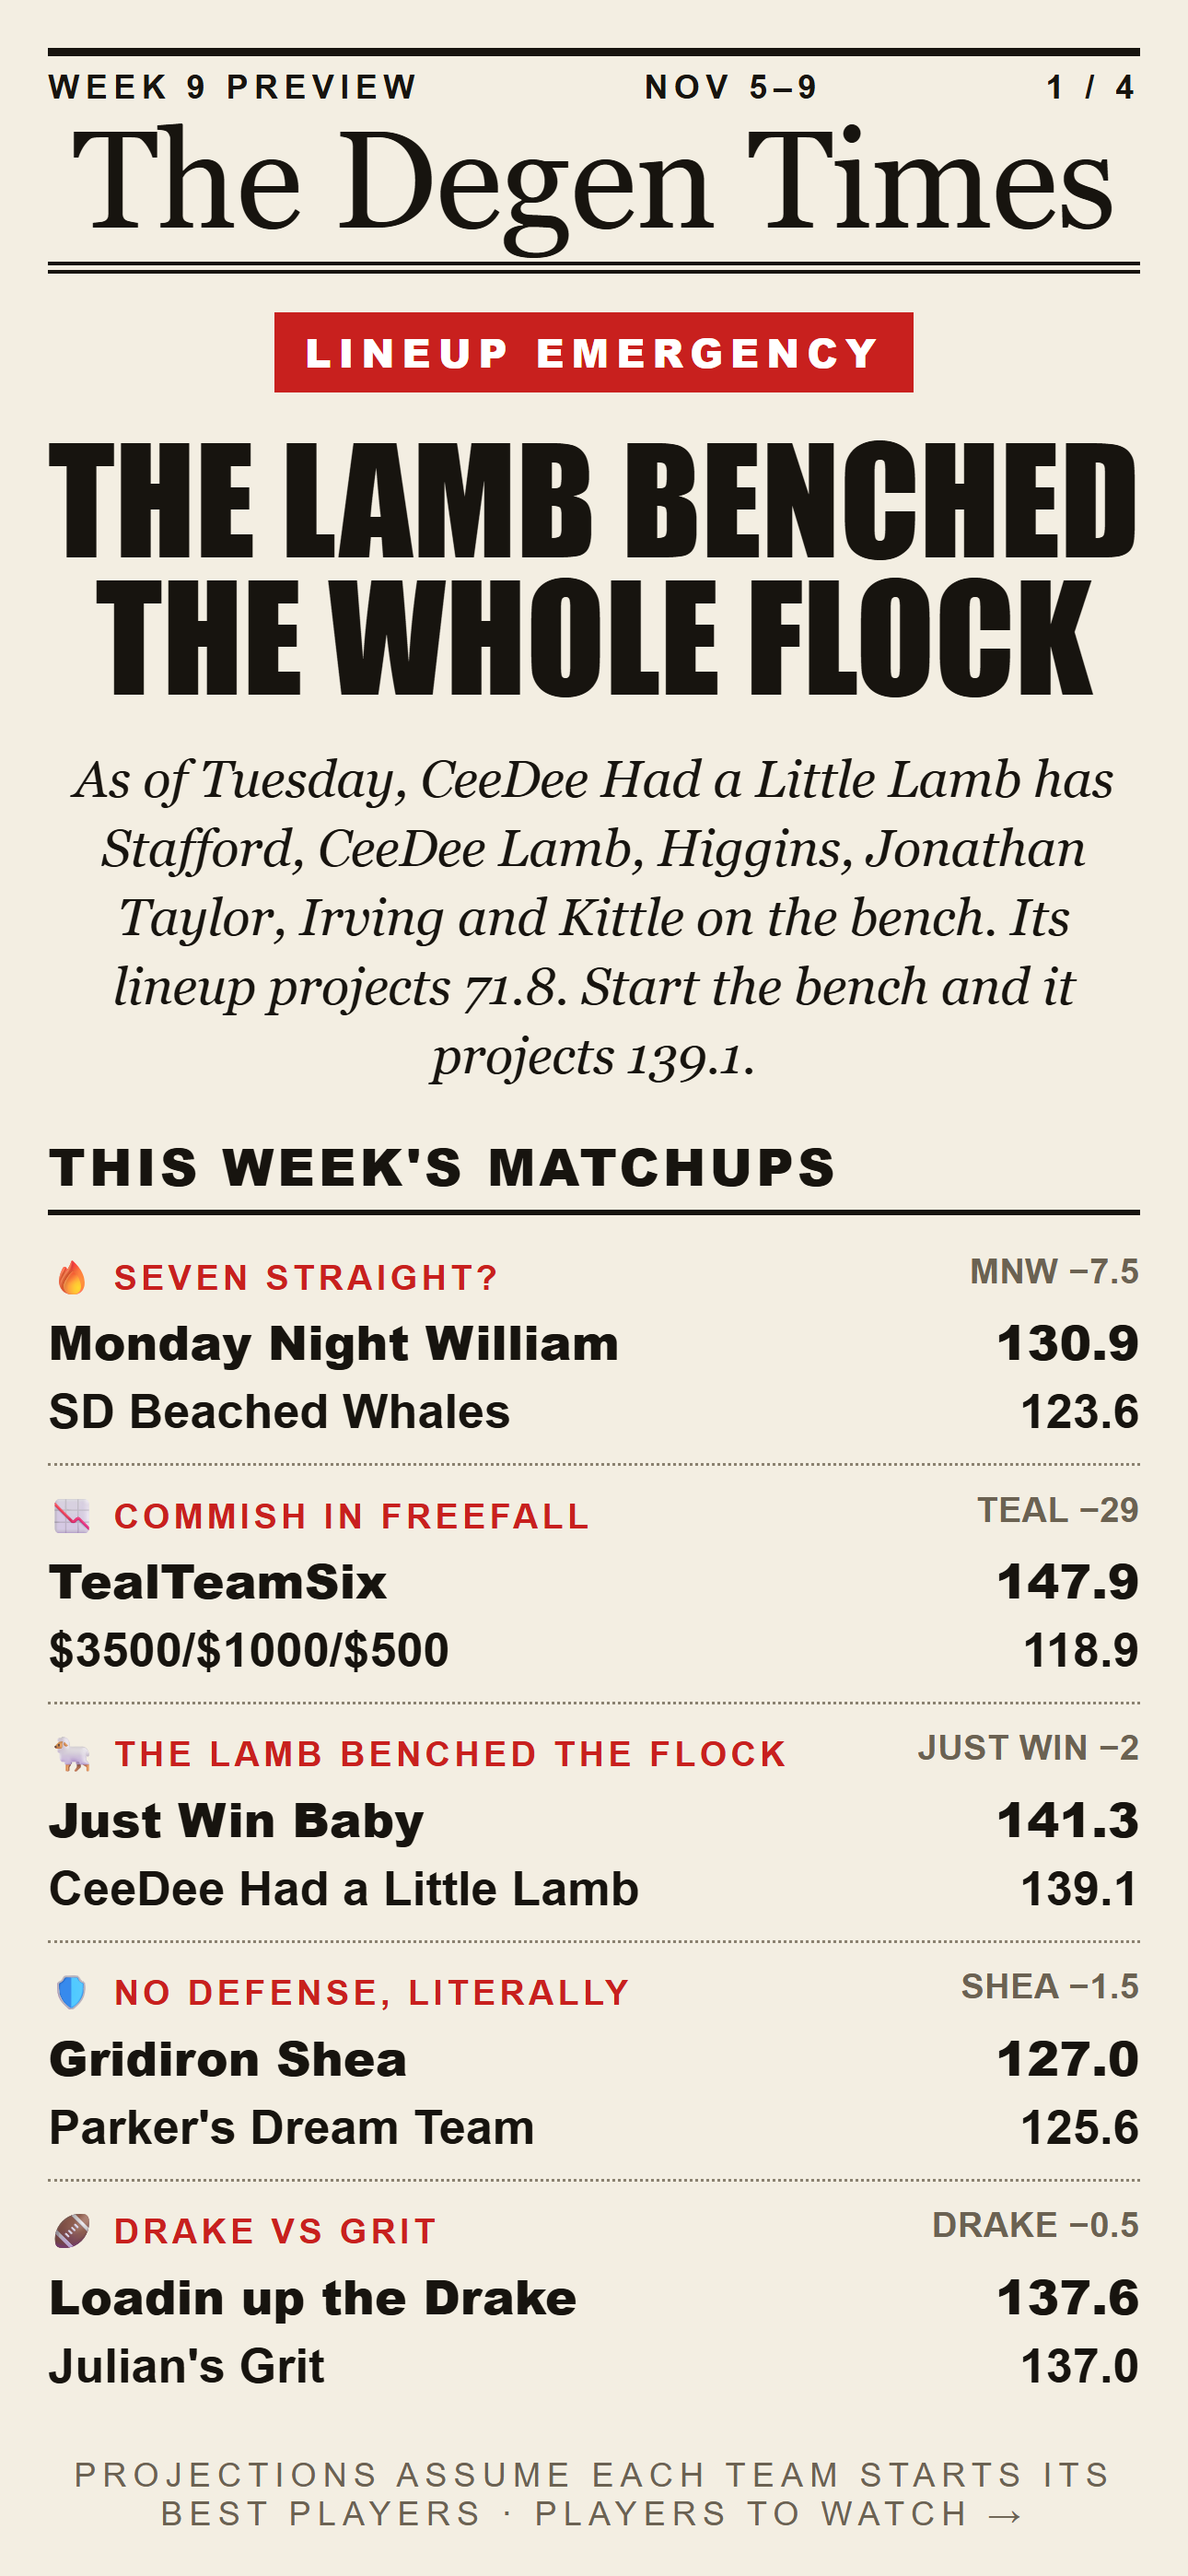
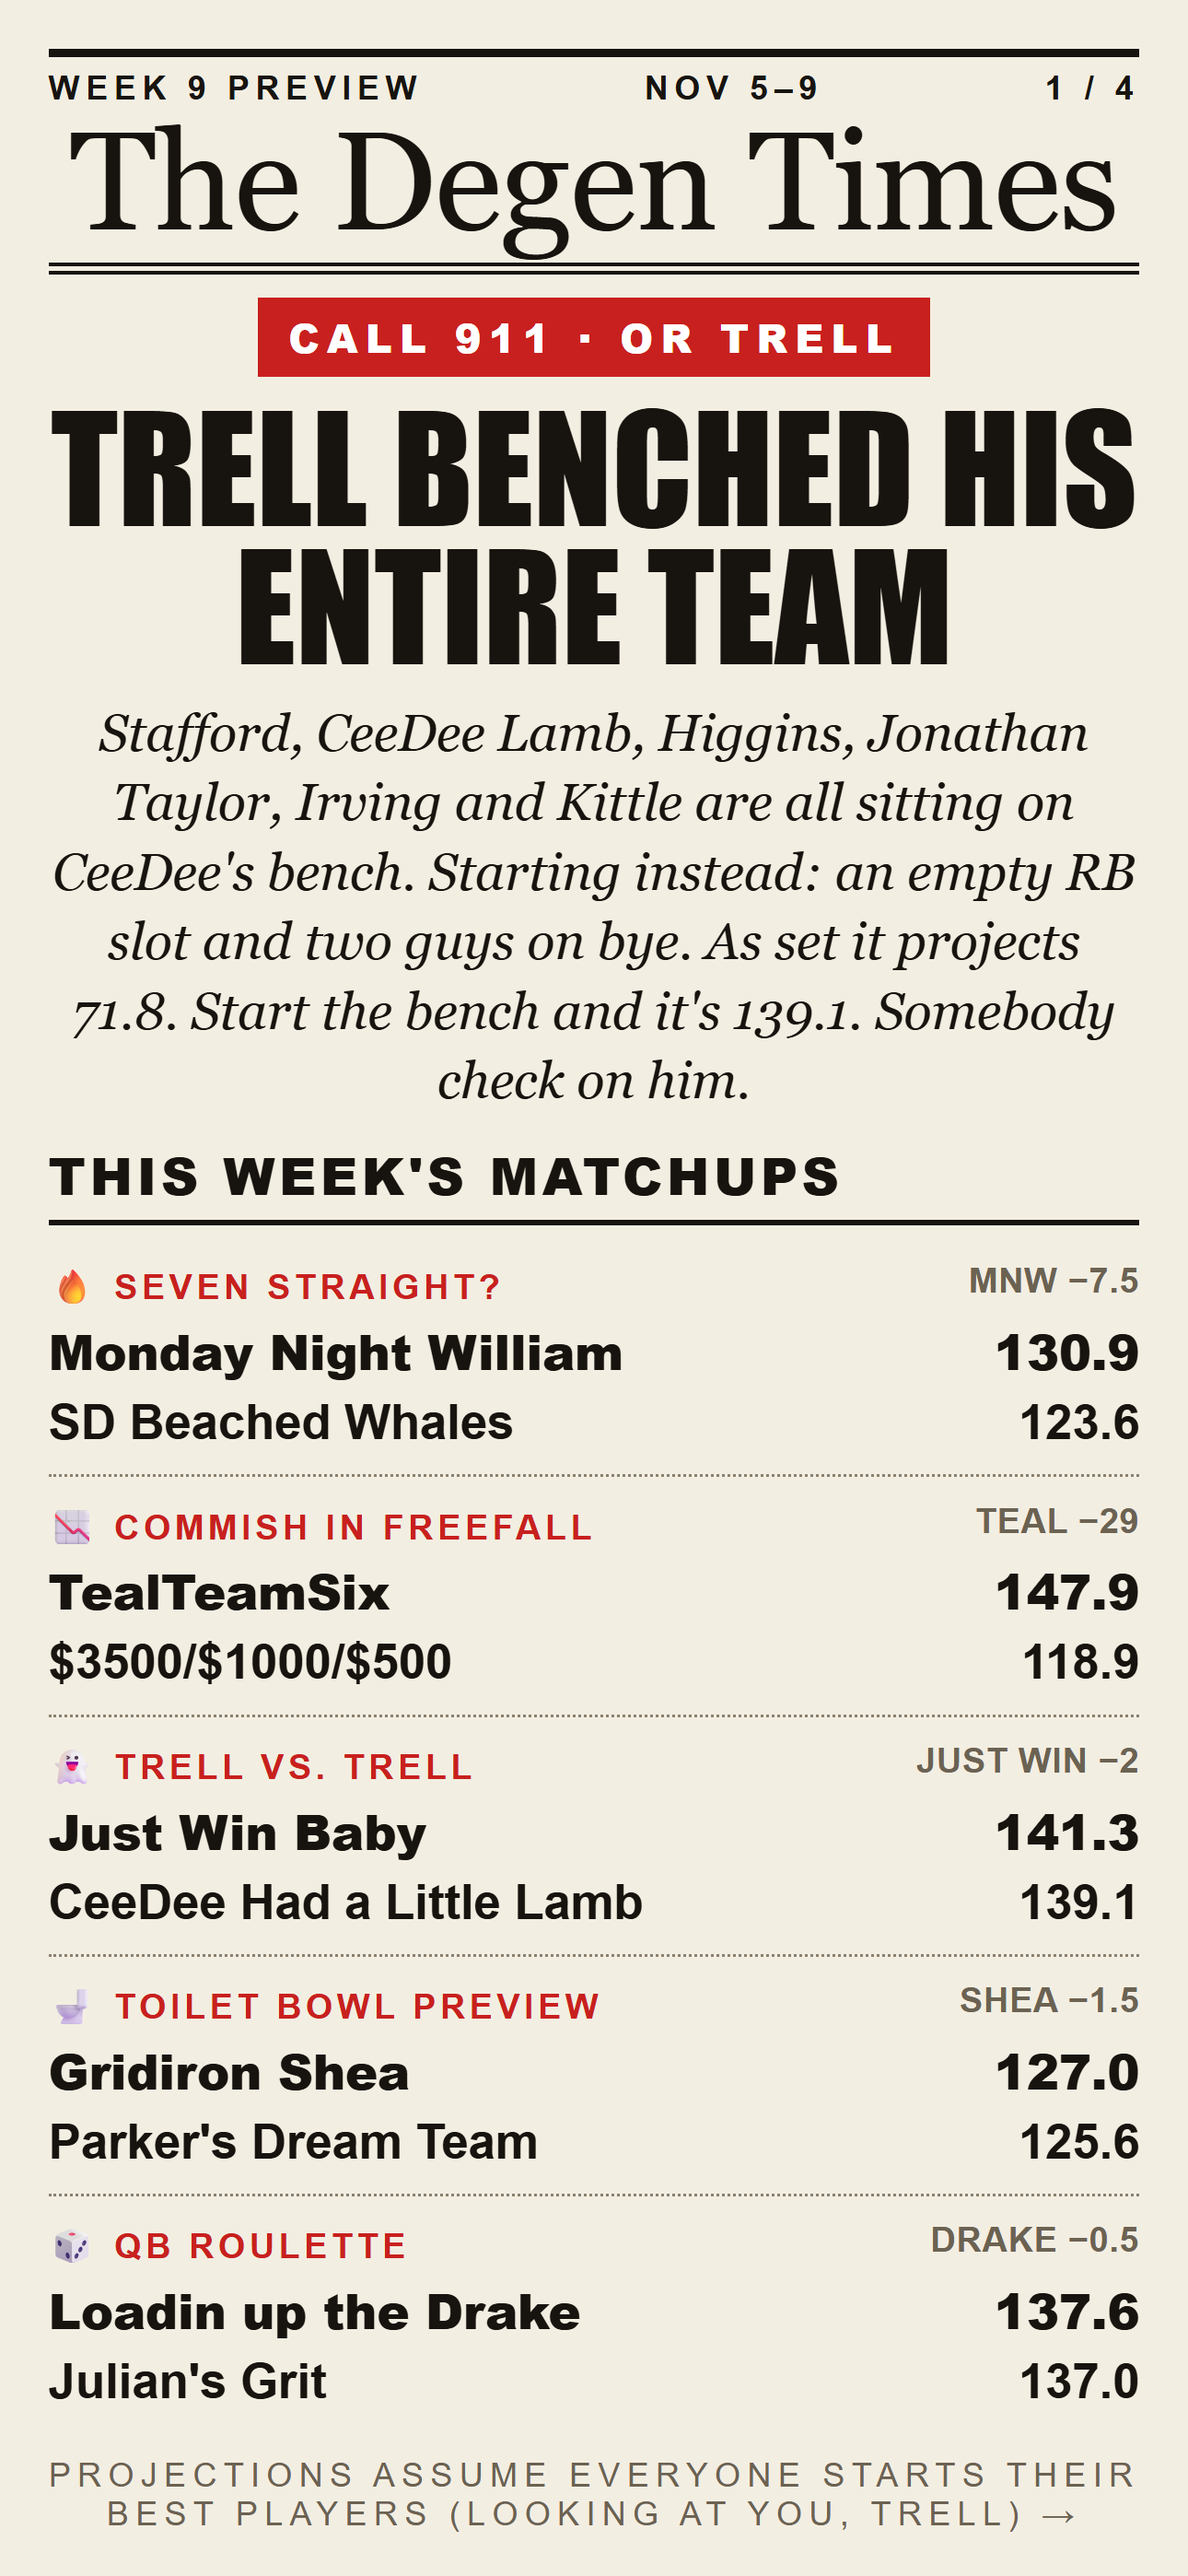
Funnier Week 9 preview; handle managers joining/leaving between seasons

Changed region(s): [[0.031, 0.0311, 0.9612, 0.9957], [0.6202, 0.9335, 0.8372, 0.9957], [0.5891, 0.6534, 0.6512, 0.6845]]

diff --git a/index.html b/index.html
@@ -666,7 +666,11 @@ const L = {
 
 const $ = id => document.getElementById(id);
 const esc = s => String(s).replace(/[&<>"]/g, c => ({"&":"&amp;","<":"&lt;",">":"&gt;",'"':"&quot;"}[c]));
-const T = k => L.teams[k].n;
+const CUR = L.season || 2026;
+// managers who left keep their history under their last team name; new managers just have no history yet
+const T = k => L.teams[k] ? L.teams[k].n : ((L.past||[]).find(P=>P.names[k]) || {names:{[k]:k}}).names[k];
+const isFormer = k => !L.teams[k];
+const EVERY = [...new Set([...Object.keys(L.teams), ...(L.past||[]).flatMap(P=>Object.keys(P.names))])];
 const f2 = n => n.toFixed(2);
 
 // header + this week
@@ -728,7 +732,7 @@ const addH = (s,w,a,sa,b,sb,t) => {
   (H[b]=H[b]||{})[a]=(H[b][a]||[]).concat({s,w,t,won:sb>sa,sa:sb,sb:sa});
 };
 for (const P of (L.past||[])) for (const [w,a,sa,b,sb,t] of P.games) if (t !== "Consolation") addH(P.season,w,a,sa,b,sb,t);
-for (const [w,a,sa,b,sb] of L.games) addH(2026,w,a,sa,b,sb,"");
+for (const [w,a,sa,b,sb] of L.games) addH(CUR,w,a,sa,b,sb,"");
 const gLabel = x => `${x.s} ${x.t || ("Wk " + x.w)}`;
 const next = {}; L.upcoming.forEach(g=>{ (next[g.a]=next[g.a]||{})[g.b]=g.wk; (next[g.b]=next[g.b]||{})[g.a]=g.wk; });
 const h2hSel = $("h2hTeam");
@@ -737,7 +741,7 @@ let saved = null; try { saved = localStorage.getItem("h2hTeam"); } catch(e) {}
 h2hSel.value = (saved && L.teams[saved]) ? saved : "MNW";
 const drawH2H = () => {
   const me = h2hSel.value;
-  const rows = keys.filter(k=>k!==me).map(o=>{
+  const rows = EVERY.filter(k=>k!==me && (!isFormer(k) || ((H[me]||{})[k]||[]).length)).map(o=>{
     const m=(H[me]||{})[o]||[], w=m.filter(x=>x.won).length, l=m.length-w, nx=(next[me]||{})[o];
     return {o,m,w,l,nx};
   }).sort((x,y)=> (y.m.length-x.m.length) || ((y.w-y.l)-(x.w-x.l)) || T(x.o).localeCompare(T(y.o)));
@@ -745,7 +749,7 @@ const drawH2H = () => {
     const games = [...m].reverse().map(x=>`<div class="gr"><span class="sn">${x.s}</span><span class="gl">${esc(x.t || ("Week " + x.w))}</span><span class="wl ${x.won?"w":"l"}">${x.won?"W":"L"}</span><span class="sc">${f2(x.sa)} – ${f2(x.sb)}</span></div>`).join("");
     const det = (games || `<div class="none">Haven't played yet</div>`) + (nx ? `<div class="nx">Next meeting: Week ${nx}</div>` : "");
     const rec = m.length ? `<div class="rec ${w>l?"w":w<l?"l":""}">${w}-${l}</div>` : `<div class="rec n">—</div>`;
-    return `<div class="opp"><div class="oh"><div class="on">vs ${esc(T(o))}</div>${rec}</div><div class="det">${det}</div></div>`;
+    return `<div class="opp"><div class="oh"><div class="on">vs ${esc(T(o))}${isFormer(o) ? " <small>(former)</small>" : ""}</div>${rec}</div><div class="det">${det}</div></div>`;
   }).join("");
 };
 h2hSel.addEventListener("change", ()=>{ try { localStorage.setItem("h2hTeam", h2hSel.value); } catch(e) {} drawH2H(); });
@@ -770,7 +774,7 @@ $("champs").innerHTML = (L.past||[]).map(P => {
   const final = P.games.find(g=>g[5]==="Championship");
   const fl = final ? (()=>{ const [w,a,sa,b,sb]=final; const [wk,ws,lk,ls]=sa>sb?[a,sa,b,sb]:[b,sb,a,sa]; return `Final: ${esc(P.names[wk])} ${f2(ws)}, ${esc(P.names[lk])} ${f2(ls)}`; })() : "";
   return `<div class="champ"><div class="yr">🏆 ${P.season} Champion · ${esc(P.league)}</div><div class="who">${esc(P.names[P.champ])}</div><div class="now">Now ${esc(T(P.champ))} · ${fl}</div><ol>${fin}</ol></div>`;
-}).join("") + `<div class="champ" style="background:var(--paper-2)"><div class="yr">🏆 2026 Champion</div><div class="who">To be decided</div><div class="now">Playoffs: Weeks 15–17 · 6 teams</div></div>`;
+}).join("") + `<div class="champ" style="background:var(--paper-2)"><div class="yr">🏆 ${CUR} Champion</div><div class="who">To be decided</div><div class="now">Playoffs: Weeks 15–17 · 6 teams</div></div>`;
 $("awards").innerHTML = Object.keys(L.awards).sort((a,b)=>b-a).map(w=>`<div class="wk"><h3>Week ${w}</h3><div class="aw">${L.awards[w].map(([aw,txt])=>`<div><b>${esc(aw)}</b>${esc(txt)}</div>`).join("")}</div></div>`).join("");
 
 // results
@@ -1107,11 +1111,11 @@ $("bdNext").addEventListener("click", () => renderBreakdown(bdW, bdI+1));
 renderBreakdown(bdW);
 
 /* ===================== HISTORY / ARCHIVE ===================== */
-const SEASONS = [{y:2026, games:L.games.map(g=>[...g,""]), recaps:L.recaps||{}, awards:L.awards||{}, bench:L.bench||{}, nm:k=>T(k), reg:99, rounds:{}},
-  ...(L.past||[]).map(P=>({y:P.season, games:P.games, recaps:P.recaps||{}, awards:P.awards||{}, bench:P.bench||{}, nm:k=>P.names[k], reg:14, rounds:{15:"Quarterfinals",16:"Semifinals",17:"Championship"}}))];
+const SEASONS = [{y:CUR, ks:Object.keys(L.teams), games:L.games.map(g=>[...g,""]), recaps:L.recaps||{}, awards:L.awards||{}, bench:L.bench||{}, nm:k=>T(k), reg:99, rounds:{}},
+  ...(L.past||[]).map(P=>({y:P.season, ks:Object.keys(P.names), games:P.games, recaps:P.recaps||{}, awards:P.awards||{}, bench:P.bench||{}, nm:k=>P.names[k], reg:14, rounds:{15:"Quarterfinals",16:"Semifinals",17:"Championship"}}))];
 let hxS = SEASONS[0], hxWk = 0;
 const wksOf = S => [...new Set(S.games.map(g=>g[0]))].sort((a,b)=>a-b);
-const setHash = (y,w) => { try { history.replaceState(null,"","#history-"+(y===2026?"":y+"-")+w); } catch(err) {} };
+const setHash = (y,w) => { try { history.replaceState(null,"","#history-"+(y===CUR?"":y+"-")+w); } catch(err) {} };
 function renderHistory(w, y) {
   if (y) hxS = SEASONS.find(s=>s.y===y) || hxS;
   const ws = wksOf(hxS); if (!ws.includes(w)) w = ws[ws.length-1]; hxWk = w;
@@ -1127,7 +1131,7 @@ function renderHistory(w, y) {
   const hi = sc.reduce((m,x)=>x[1]>m[1]?x:m), lo = sc.reduce((m,x)=>x[1]<m[1]?x:m);
   const mg = wg.map(([_,a,sa,b,sb])=>({w:sa>sb?a:b, l:sa>sb?b:a, m:Math.abs(sa-sb)}));
   const close = mg.reduce((m,x)=>x.m<m.m?x:m), blow = mg.reduce((m,x)=>x.m>m.m?x:m);
-  const bench = keys.map(k=>[k,(hxS.bench[k]||[])[w-1]]).filter(x=>x[1]!=null).sort((a,b)=>b[1]-a[1]);
+  const bench = hxS.ks.map(k=>[k,(hxS.bench[k]||[])[w-1]]).filter(x=>x[1]!=null).sort((a,b)=>b[1]-a[1]);
   $("hxSup").innerHTML = [
     ["High score", f2(hi[1]), N(hi[0])], ["Low score", f2(lo[1]), N(lo[0])],
     ["Closest game", close.m.toFixed(2), `${N(close.w)} over ${N(close.l)}`], ["Biggest blowout", "+" + blow.m.toFixed(2), `${N(blow.w)} over ${N(blow.l)}`],
@@ -1139,9 +1143,9 @@ function renderHistory(w, y) {
   $("hxAwT").textContent = `${hxS.rounds[w] || "Week " + w} Awards`;
   $("hxAw").innerHTML = (hxS.awards[w]||[]).map(([aw,txt])=>`<div class="haw"><b>${esc(aw)}</b>${esc(txt)}</div>`).join("") || `<p class="empty">No awards recorded for this week.</p>`;
   const upto = Math.min(w, hxS.reg);
-  const St = Object.fromEntries(keys.map(k=>[k,{w:0,l:0,pf:0}]));
+  const St = Object.fromEntries(hxS.ks.map(k=>[k,{w:0,l:0,pf:0}]));
   hxS.games.filter(g=>g[0]<=upto && !g[5]).forEach(([_,a,sa,b,sb])=>{ St[a].pf+=sa; St[b].pf+=sb; if (sa>sb){St[a].w++;St[b].l++;} else {St[b].w++;St[a].l++;} });
-  const ord = [...keys].sort((a,b)=>(St[b].w-St[a].w)||(St[b].pf-St[a].pf));
+  const ord = [...hxS.ks].sort((a,b)=>(St[b].w-St[a].w)||(St[b].pf-St[a].pf));
   $("hxStT").textContent = w > hxS.reg ? "Final Regular-Season Standings" : `Standings after Week ${w}`;
   $("hxSt").innerHTML = `<thead><tr><th>#</th><th style="text-align:left">Team</th><th>W-L</th><th>PF</th></tr></thead><tbody>` + ord.map((k,i)=>`<tr><td>${i+1}</td><td class="tm">${esc(N(k))}</td><td>${St[k].w}-${St[k].l}</td><td>${St[k].pf.toFixed(1)}</td></tr>`).join("") + `</tbody>`;
   $("hxBench").innerHTML = bench.length ? `<thead><tr><th style="text-align:left">Team</th><th>Left on bench</th></tr></thead><tbody>` + bench.map(([k,v])=>`<tr><td class="tm">${esc(N(k))}</td><td>${v.toFixed(1)}</td></tr>`).join("") + `</tbody>` : `<tbody><tr><td class="empty">No bench data for this week.</td></tr></tbody>`;
@@ -1150,14 +1154,14 @@ $("seasonPills").addEventListener("click", e => { const b = e.target.closest("bu
 $("wkPills").addEventListener("click", e => { const b = e.target.closest(".wkpill"); if (!b) return; const w = +b.dataset.wk; setHash(hxS.y,w); renderHistory(w); });
 $("wkPrev").addEventListener("click", ()=>{ const ws = wksOf(hxS), i = ws.indexOf(hxWk); if (i>0) { setHash(hxS.y,ws[i-1]); renderHistory(ws[i-1]); } });
 $("wkNext").addEventListener("click", ()=>{ const ws = wksOf(hxS), i = ws.indexOf(hxWk); if (i<ws.length-1) { setHash(hxS.y,ws[i+1]); renderHistory(ws[i+1]); } });
-renderHistory(wksOf(SEASONS[0]).slice(-1)[0], 2026);
+renderHistory(wksOf(SEASONS[0]).slice(-1)[0], CUR);
 
 /* ===================== RECORD BOOK ===================== */
 {
   const ALL = SEASONS.flatMap(S=>S.games.map(([w,a,sa,b,sb,t])=>({S,y:S.y,w,a,sa,b,sb,t})));
   const when = x => `${x.y} ${x.t && x.t!=="Consolation" ? x.t : "Week " + x.w}`;
-  const tName = (S,k) => S.y===2026 ? T(k) : `${S.nm(k)}`;
-  const now = (S,k) => S.y===2026 || S.nm(k)===T(k) ? "" : ` (now ${T(k)})`;
+  const tName = (S,k) => S.y===CUR ? T(k) : `${S.nm(k)}`;
+  const now = (S,k) => S.y===CUR || isFormer(k) || S.nm(k)===T(k) ? "" : ` (now ${T(k)})`;
   const teamScores = ALL.flatMap(x=>[{x,k:x.a,s:x.sa,o:x.sb},{x,k:x.b,s:x.sb,o:x.sa}]);
   const row = (i,title,sub,val) => `<div class="rr"><span class="n">${i+1}</span><span class="t">${esc(title)}<small>${esc(sub)}</small></span><span class="v">${esc(val)}</span></div>`;
   const card = (title, rows) => `<div class="rb"><h3>${title}</h3>${rows.join("")}</div>`;
@@ -1167,30 +1171,31 @@ renderHistory(wksOf(SEASONS[0]).slice(-1)[0], 2026);
   const blow = [...mgs].sort((p,q)=>q.m-p.m).slice(0,5).map((e,i)=>row(i, `${tName(e.x.S,e.w)} over ${tName(e.x.S,e.l)}`, when(e.x), "+" + e.m.toFixed(2)));
   const close = [...mgs].sort((p,q)=>p.m-q.m).slice(0,5).map((e,i)=>row(i, `${tName(e.x.S,e.w)} over ${tName(e.x.S,e.l)}`, when(e.x), e.m.toFixed(2)));
   const pl = (arr) => arr.map(([p,n,k,y,w],i)=>{ const S = SEASONS.find(s=>s.y===y); return row(i, n, `${tName(S,k)} · ${y} Week ${w}`, f2(p)); });
-  const benchW = SEASONS.flatMap(S=>keys.flatMap(k=>(S.bench[k]||[]).map((v,i)=>({S,k,w:i+1,v})).filter(e=>e.v!=null))).sort((p,q)=>q.v-p.v).slice(0,5)
+  const benchW = SEASONS.flatMap(S=>S.ks.flatMap(k=>(S.bench[k]||[]).map((v,i)=>({S,k,w:i+1,v})).filter(e=>e.v!=null))).sort((p,q)=>q.v-p.v).slice(0,5)
     .map((e,i)=>row(i, tName(e.S,e.k), `${e.S.y} Week ${e.w}` + now(e.S,e.k), e.v.toFixed(1)));
   const streaks = [];
-  for (const S of SEASONS) for (const k of keys) { let cur=0, best=0;
+  for (const S of SEASONS) for (const k of S.ks) { let cur=0, best=0;
     for (const [w,a,sa,b,sb,t] of S.games.filter(g=>!g[5]).sort((p,q)=>p[0]-q[0])) { if (a!==k && b!==k) continue; const won = (a===k) === (sa>sb); cur = won ? cur+1 : 0; best = Math.max(best,cur); }
     if (best) streaks.push({S,k,best}); }
   const strk = streaks.sort((p,q)=>q.best-p.best).slice(0,5).map((e,i)=>row(i, tName(e.S,e.k), `${e.S.y} regular season` + now(e.S,e.k), e.best + " W"));
   $("rcBook").innerHTML = [card("🔥 Highest Scores", hiS), card("🧊 Lowest Scores", loS), card("💥 Biggest Blowouts", blow), card("😬 Closest Games", close),
     card("⭐ Best Individual Games", pl(L.records.starts)), card("🪑 Best Games on the Bench", pl(L.records.benched)), card("🛋 Most Left on the Bench", benchW), card("📈 Longest Win Streaks", strk)].join("");
-  const C = Object.fromEntries(keys.map(k=>[k,{w:0,l:0,pf:0,g:0,pw:0,pl:0,titles:0,apps:0,best:null}]));
+  const C = Object.fromEntries(EVERY.map(k=>[k,{w:0,l:0,pf:0,g:0,pw:0,pl:0,titles:0,apps:0,best:null}]));
+  const wp = c => c.w+c.l ? c.w/(c.w+c.l) : 0;
   for (const x of ALL) { if (x.t==="Consolation") continue;
     for (const [k,s,o] of [[x.a,x.sa,x.sb],[x.b,x.sb,x.sa]]) { const c=C[k]; if (!x.t) { c.g++; c.pf+=s; s>o?c.w++:c.l++; } else { s>o?c.pw++:c.pl++; } } }
   for (const P of (L.past||[])) { C[P.champ].titles++; P.finish.slice(0,6).forEach(k=>C[k].apps++); P.finish.forEach((k,i)=>{ if (C[k].best===null || i+1<C[k].best) C[k].best=i+1; }); }
-  const ord2 = [...keys].sort((a,b)=>(C[b].titles-C[a].titles)||((C[b].w/(C[b].w+C[b].l))-(C[a].w/(C[a].w+C[a].l)))||(C[b].pf-C[a].pf));
+  const ord2 = [...EVERY].sort((a,b)=>(isFormer(a)-isFormer(b))||(C[b].titles-C[a].titles)||(wp(C[b])-wp(C[a]))||(C[b].pf-C[a].pf));
   const sfx = n => n===1?"1st":n===2?"2nd":n===3?"3rd":n+"th";
   $("rcCareer").innerHTML = `<thead><tr><th>#</th><th style="text-align:left">Manager's team</th><th>Titles</th><th>W-L</th><th>Win %</th><th>PF / game</th><th>Playoffs</th><th>Best finish</th></tr></thead><tbody>` +
-    ord2.map((k,i)=>{ const c=C[k]; return `<tr><td>${i+1}</td><td class="tm">${esc(T(k))}</td><td class="${c.titles?"ttl":""}">${c.titles?"🏆".repeat(c.titles):"–"}</td><td>${c.w}-${c.l}</td><td>${(c.w/(c.w+c.l)*100).toFixed(1)}</td><td>${(c.pf/c.g).toFixed(1)}</td><td>${c.apps ? c.pw+"-"+c.pl : "–"}</td><td>${c.best ? sfx(c.best) : "–"}</td></tr>`; }).join("") + `</tbody>`;
+    ord2.map((k,i)=>{ const c=C[k]; return `<tr><td>${i+1}</td><td class="tm">${esc(T(k))}${isFormer(k) ? "<small>Former member</small>" : ""}</td><td class="${c.titles?"ttl":""}">${c.titles?"🏆".repeat(c.titles):"–"}</td><td>${c.w}-${c.l}</td><td>${c.w+c.l ? (wp(c)*100).toFixed(1) : "–"}</td><td>${c.g ? (c.pf/c.g).toFixed(1) : "–"}</td><td>${c.apps ? c.pw+"-"+c.pl : "–"}</td><td>${c.best ? sfx(c.best) : "–"}</td></tr>`; }).join("") + `</tbody>`;
 }
 
 /* ===================== PAGES (one section at a time) ===================== */
 const PAGES = [...document.querySelectorAll(".wrap > section")].map(s=>s.id);
 const showPage = (id, scroll) => {
   id = ({week:"home", results:"scores"})[id] || id;
-  const hm = /^history-(?:(\d{4})-)?(\d+)$/.exec(id || ""); if (hm) { id = "history"; renderHistory(+hm[2], hm[1] ? +hm[1] : 2026); }
+  const hm = /^history-(?:(\d{4})-)?(\d+)$/.exec(id || ""); if (hm) { id = "history"; renderHistory(+hm[2], hm[1] ? +hm[1] : CUR); }
   const bm = /^breakdown-(\d+)$/.exec(id || ""); if (bm) { id = "breakdown"; renderBreakdown(+bm[1]); }
   if (!PAGES.includes(id) || id === "bet") id = "home";
   document.querySelectorAll(".wrap > section").forEach(s => { s.hidden = s.id !== id; });
